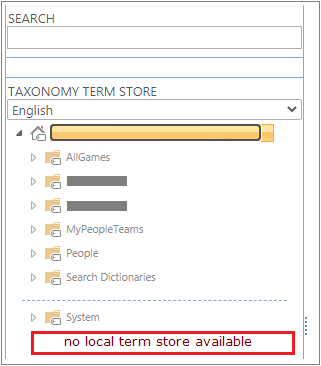
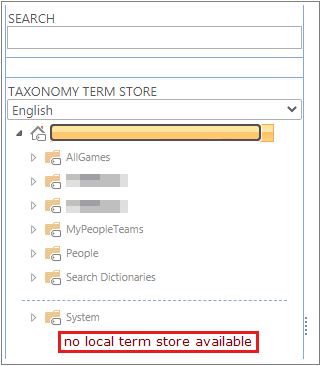
Image Improvements of SharePoint articles

Changed region(s): [[0.0935, 0.9016, 0.9346, 0.9918], [0.1869, 0.541, 0.405, 0.6011], [0.1869, 0.4508, 0.405, 0.5109]]

diff --git a/SharePoint/SharePointOnline/administration/create-default-site-term-set.md b/SharePoint/SharePointOnline/administration/create-default-site-term-set.md
@@ -23,7 +23,7 @@ This article describes how to create a default Site collection Term Set if none 
 
 In a site collection, when you go to **Term Store Management** during a site collection, you don't see a **term set** specific to that respective site collection.
 
-![No local term store available](./media/create-default-site-term-set/no-local-term-store.png)
+:::image type="content" source="media/create-default-site-term-set/no-local-term-store.png" alt-text="Screenshot shows no local term store available when you go to Term Store Management during a site collection." border="false":::
 
 ## Cause
 
@@ -39,30 +39,28 @@ If you need a local term store and don't want to activate the publishing feature
 
 1. On any site, select the **Gear icon** at the top-right corner of the window, and select **Site contents** from the drop-down menu.
 
-   ![Select Site contents](./media/create-default-site-term-set/select-site-contents.png)
+  :::image type="content" source="media/create-default-site-term-set/select-site-contents.png" alt-text="Screenshot shows selecting the Gear icon at the top-right corner of the window and selecting Site contents from the drop-down menu.":::
   
 2. Find any list or library, and select the **ellipsis**, then select **Settings**.
 
-   ![Choose Settings](./media/create-default-site-term-set/choose-settings.png)
+   :::image type="content" source="media/create-default-site-term-set/choose-settings.png" alt-text="Screenshot shows finding any list or library, selecting the ellipsis, and then selecting Settings." border="false":::
 
 3. In the List settings, go to the **Columns** section and select **Create column**.
 
-   ![Add a Managed Metadata column, create the column](./media/create-default-site-term-set/create-column.png)
+   :::image type="content" source="media/create-default-site-term-set/create-column.png" alt-text="Screenshot of the Columns section in the List setting, selecting Create column." border="false":::
 
 4. Choose a name for the column, such as **LocalMMS** or **NewMMS**.
 
 5. Change the column type from **Single line of text** to **Managed Metadata**.
 
-   ![Add a Managed Metadata column, add a name](./media/create-default-site-term-set/change-column-type-to-managed-metadata.png)
+   :::image type="content" source="media/create-default-site-term-set/change-column-type-managed-metadata.png" alt-text="Screenshot of Create column setting, choose a column name and changing the column type to Managed Metadata." border="false":::
 
 6. Scroll down to **Term Set Settings** and choose **Customize your term set:**. You can provide description if you would like, but you should see the name of the column you put above there.
 
-   ![Select the option to customize your term set](./media/create-default-site-term-set/customize-your-term-set.png)
+   :::image type="content" source="media/create-default-site-term-set/customize-term-set.png" alt-text="Screenshot of Term Set Settings, choosing Customize your term set to provide description if you would like." border="false":::
 
 7. Select the **OK** button.
 
-   ![Select the OK button](./media/create-default-site-term-set/select-okay.png)
-
 8. Return to the **Taxonomy Term Store** in Site settings, and verify that you can locate the new local term store at the site collection level.
 
-   ![The site collection now appears in the term store](./media/create-default-site-term-set/site-collection-appears-in-term-store.png)
+   :::image type="content" source="media/create-default-site-term-set/site-collection-new-local-term-store.png" alt-text="Screenshot of the Taxonomy Term Store in Site settings, with new local term store at the site collection level." border="false":::

diff --git a/SharePoint/SharePointServer/administration/how-to-change-the-database-in-farms.md b/SharePoint/SharePointServer/administration/how-to-change-the-database-in-farms.md
@@ -74,7 +74,7 @@ Get-SPDatabase | Select Name,Server
 
 You should receive a result that's similar to the following example:
 
-![DB output](./media/how-to-change-the-database-server-in-farms/db-output.png)
+:::image type="content" source="media/how-to-change-the-database-server-in-farms/db-output.png" alt-text="Screenshot of database output after running the relevant PowerShell cmdlet in an elevated SharePoint Management Shell window." border="false":::
 
 ### Step 3: Point the default database instance for the web applications to the new SQL Server instance  
 
@@ -107,7 +107,7 @@ $webapps = Get-SPWebApplication -IncludeCentralAdministration
 
 You should receive a result that resembles the following example:
 
-![DB instance output](./media/how-to-change-the-database-server-in-farms/db-instance-output.png)   
+:::image type="content" source="media/how-to-change-the-database-server-in-farms/db-instance-output.png" alt-text="Screenshot of database instance output after running the relevant PowerShell cmdlet in an elevated SharePoint Management Shell window." border="false":::   
 
 ### Step 4: Change the Distributed Cache cluster configuration  
 
@@ -164,7 +164,7 @@ To do this, follow these steps:
 
    When the service is stopped, you should receive a result that's similar to the following example:  
 
-   ![cache host output](./media/how-to-change-the-database-server-in-farms/cache-host-output.png)   
+   :::image type="content" source="media/how-to-change-the-database-server-in-farms/cache-host-output.png" alt-text="Screenshot of cache host output after the service is stopped by running the relevant PowerShell cmdlet in an elevated PowerShell prompt." border="false":::   
 
 3. Remove the local server from the Distributed Cache cluster by running the following PowerShell cmdlet:  
 
@@ -180,7 +180,7 @@ To do this, follow these steps:
 
 5. Open Registry Editor, and then verify that the **ConnectionString** value of the HKLM\SOFTWARE\Microsoft\AppFabric\V1.0\Configuration key is updated. Here is an example:  
 
-   ![registry](./media/how-to-change-the-database-server-in-farms/registry.png)   
+   :::image type="content" source="media/how-to-change-the-database-server-in-farms/registry-editor-connectionstring.png" alt-text="Screenshot of Registry Editor, verifying that the ConnectionString value of the HKLM\SOFTWARE\Microsoft\AppFabric\V1.0\Configuration key is updated." border="false":::   
 
 6. Repeat step 1 to 5 on each of the other servers in the Distributed Cache cluster.      
 
@@ -203,7 +203,7 @@ Get-SPServer
 
 You should receive a result that resembles the following example:   
 
-![server output](./media/how-to-change-the-database-server-in-farms/server-output.png)    
+:::image type="content" source="media/how-to-change-the-database-server-in-farms/server-output.png" alt-text="Screenshot of server output after running the relevant cmdlet to verify that the database server is successfully changed." border="false":::    
 
 ## More Information  
 

diff --git a/SharePoint/SharePointExperts/administration/microsoft-forms-shows-sorry-something-went-wrong.md b/SharePoint/SharePointExperts/administration/microsoft-forms-shows-sorry-something-went-wrong.md
@@ -40,12 +40,12 @@ To resolve this issue, enable the **CollabDBService** service for Microsoft Form
 1. Select **Enterprise Applications**.
 1. In the **Search** field, type **CollabDBService**.
 
-   ![the enterprise applications](./media/microsoft-forms-shows-sorry-something-went-wrong/enterprise-applications.png)
+   :::image type="content" source="media/microsoft-forms-shows-sorry-something-went-wrong/enterprise-applications.png" alt-text="Screenshot of Enterprise applications page, typing CollabDBService in the Search field." border="false":::
 
 1. Select **CollabDBService** in the result list.
 1. Under **MANAGE**, select **Properties**.
 1. For the **Enabled for users to sign-in** option, select **Yes**, and then click **Save**.
 
-   ![the collabdbservice properties dialog box](./media/microsoft-forms-shows-sorry-something-went-wrong/collabdbservice-properties.png)
+   :::image type="content" source="media/microsoft-forms-shows-sorry-something-went-wrong/collabdbservice-properties.png" alt-text="Screenshot of CollabDBService Properties, selecting the Enabled for users to sign-in option." border="false":::
 
 For more information, see [Turn off or turn on Microsoft Forms](https://support.office.com/article/turn-off-or-turn-on-microsoft-forms-8dcbf3ab-f2d6-459a-b8be-8d9892132a43).

diff --git a/SharePoint/SharePointExperts/administration/files-open-in-read-only-mode.md b/SharePoint/SharePointExperts/administration/files-open-in-read-only-mode.md
@@ -24,7 +24,8 @@ Some Office documents are opened correctly in Microsoft SharePoint Server 2013, 
 
 Sometimes, this is shown as a limitation of the size of the document. For example, documents over 6 megabytes (MB) are opened in read-only mode, but documents smaller than 6 MB are opened correctly.
 
-![the read-only document dialog box](./media/files-open-in-read-only-mode/read-only-document.png)
+:::image type="content" source="media/files-open-in-read-only-mode/read-only-document.png" alt-text="Screenshot of read-only document in Microsoft SharePoint Server 2013." border="false":::
+
 
 ## Cause
 

diff --git a/SharePoint/SharePointOnline/administration/error-accessing-sharepoint-onedrive.md b/SharePoint/SharePointOnline/administration/error-accessing-sharepoint-onedrive.md
@@ -25,7 +25,7 @@ appliesto:
 
 When you try to access **SharePoint** or **OneDrive**, you receive following error:
 
-![This site can't be reached](media/error-accessing-sharepoint-onedrive/this-site-cannot-be-reached.png)
+:::image type="content" source="media/error-accessing-sharepoint-onedrive/site-cannot-reach-error.png" alt-text="Screenshot of error that this site can't be reached when you access SharePoint or OneDrive.":::
 
 ## Cause
 
